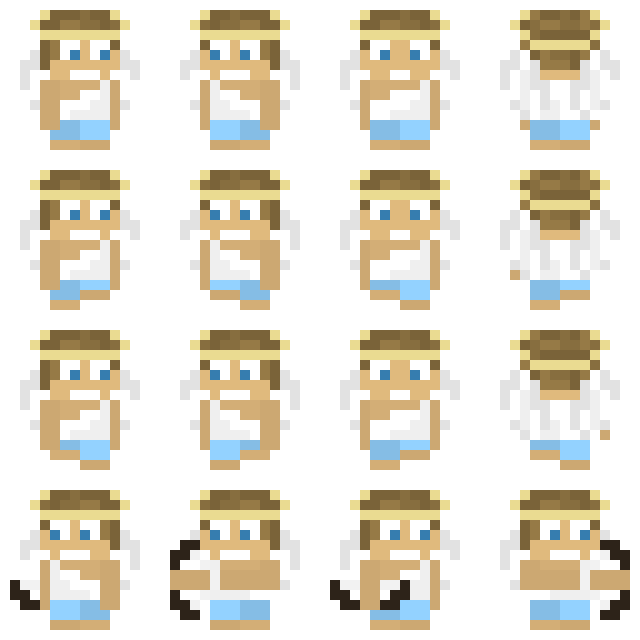
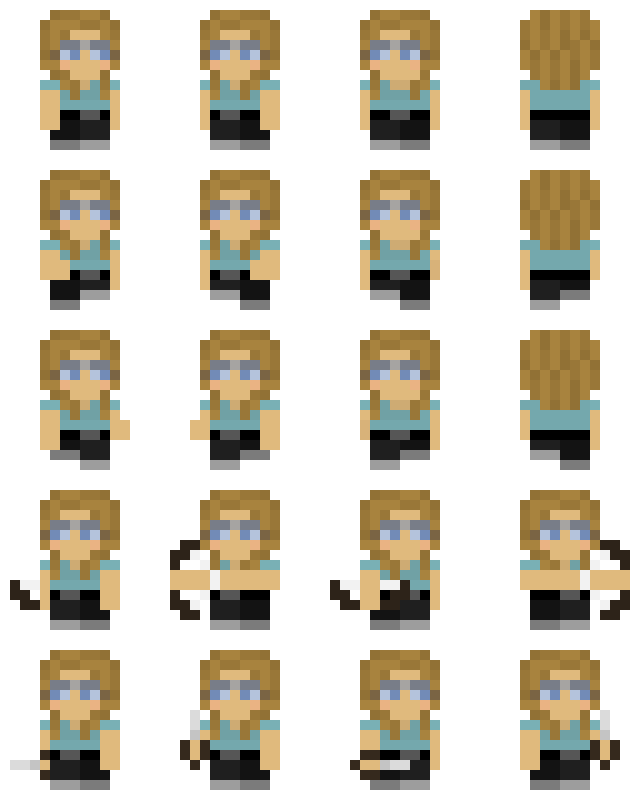
Attacking with Sword

diff --git a/player.js b/player.js
@@ -13,9 +13,6 @@ const Y_OFFSET = HEIGHT / 2 - PLAYER_SIZE / 2;
 // Ruch gracza
 var direction = 0;
 var moving = false;
-var shooting = false;
-var leftButton = false;
-var shootingIndex = -1;
 
 var movingTime = 0;
 var movingIndex = -1;
@@ -45,9 +42,6 @@ const allTheRightMoves = {
     D: [1, 0]
 };
 
-var shootingTextures1 = [];
-var shootingTextures2 = [];
-
 // Funkcja renderująca graczy
 function renderPlayers() {
     for (var player of otherPlayers) {
@@ -55,7 +49,7 @@ function renderPlayers() {
 
         var xPos = getX(player.xPos);
         var yPos = getY(player.yPos);
-        drawPlayer(xPos, yPos, player.skin, player.direction, player.movingIndex, player.shooting, player.shootingIndex, player.leftButton, player.charged);
+        drawPlayer(xPos, yPos, player.skin, player.direction, player.movingIndex, player.shooting, player.shootingDirIndex, player.leftButton, player.charged, player.swordAttack, player.swordDirIndex, player.swordAttackStage);
         
         var textX = xPos + PLAYER_SIZE / 2;
         var textY = yPos - 18;
@@ -75,9 +69,12 @@ function send() {
         playerCode, direction,
         moving, movingIndex,
 
-        shooting, shootingIndex,
+        shooting, shootingDirIndex,
         leftButton, charged,
-        gameCode, shots
+        gameCode, shots,
+        
+        swordAttack, swordAttackStage,
+        swordDirIndex
     });
 }
 
@@ -103,22 +100,32 @@ function playerMoving() {
         movingTime++;
         movingIndex = (movingTime % TEX_SPEED < TEX_SPEED / 2) ? 0 : 1;
     }
-    hitbox.render(X_OFFSET, Y_OFFSET, "red");
 }
 
 // Funkcja renderująca dowolnego gracza na mapie
-function drawPlayer(x, y, textureIndex, direction, movingIndex, shooting, shootingIndex, leftButton, charged) {
+function drawPlayer(x, y, textureIndex, direction, movingIndex, shooting, shootingIndex, leftButton, charged, swordAttack, swordDirIndex, swordAttackStage) {
     var texture = skinsImages[textureIndex];
     var xOffset = direction;
     var yOffset = movingIndex + 1;
 
-    if(shooting) {
-        var shootingTextures = shootingIndex == 1 ? shootingTextures1 : shootingTextures2;
-        var index = leftButton ? 0 : 1;
-        if(!charged) index = 1;
+    const BOW_TEX = 3;
+    const SWORD_TEX = 4;
 
-        xOffset = shootingTextures[index][0];
-        yOffset = shootingTextures[index][1];
+    if(shooting) {
+        var shootingTextures = weaponTextures[shootingIndex == LEFT ? "left" : "right"];
+        var index = leftButton ? WEAPON_ACTIVE : WEAPON_DEFAULT;
+        if(!charged) index = WEAPON_DEFAULT;
+
+        xOffset = shootingTextures[index];
+        yOffset = BOW_TEX;
+    }
+    if(swordAttack) {
+        var attackTextures = weaponTextures[swordDirIndex == LEFT ? "left" : "right"];
+        var index = swordAttackStage ? WEAPON_DEFAULT : WEAPON_ACTIVE;
+        attackTextures = weaponTextures["left"];
+
+        xOffset = attackTextures[index];
+        yOffset = SWORD_TEX;
     }
     ctx.drawImage(texture, xOffset * PLAYER_SIZE, yOffset * PLAYER_SIZE, PLAYER_SIZE, PLAYER_SIZE, x, y, PLAYER_SIZE, PLAYER_SIZE);
 }
@@ -152,25 +159,6 @@ function isCollision(playerX, playerY, moveX, moveY, direction) {
 
     var tile = getTile(xPos, yPos);
     return tilesSolid[tile.type];
-}
-
-function shoot(mouseX, mouseY) {
-    var playerCenterX = playerX + PLAYER_SIZE / 2;
-    var playerCenterY = playerY + PLAYER_SIZE / 2;
-
-    var xPos = mouseX + playerX - X_OFFSET;
-    var yPos = mouseY + playerY - Y_OFFSET;
-
-    var xLength = xPos - playerCenterX;
-    var yLength = yPos - playerCenterY;
-
-    var angle = Math.atan2(yLength, xLength);
-    var shot = new ArrowShot(playerCenterX, playerCenterY, angle);
-    shots.push(shot);
-    send();
-    
-    arrows--;
-    setBoardString("arrows", arrows);
 }
 
 function getX(mapX) {

diff --git a/weapon.js b/weapon.js
@@ -9,6 +9,18 @@ var charged = true;
 var bow = false;
 var arrows = 0;
 
+const WEAPON_DEFAULT = 1;
+const WEAPON_ACTIVE = 0;
+var weaponTextures = {};
+
+var shooting = false;
+var leftButton = false;
+var shootingDirIndex = -1;
+
+var swordAttack = false;
+var swordAttackStage = -1;
+var swordDirIndex = -1;
+
 class ArrowShot {
     constructor(startX, startY, angle) {
         this.startX = startX;
@@ -17,7 +29,7 @@ class ArrowShot {
 
         this.xSpeed = Math.cos(angle) * SHOT_SPEED;
         this.ySpeed = Math.sin(angle) * SHOT_SPEED;
-        
+
         this.xPos = startX - TILE_SIZE / 2;
         this.yPos = startY - TILE_SIZE / 2;
         this.destroyed = false;
@@ -26,7 +38,7 @@ class ArrowShot {
         this.xPos += this.xSpeed;
         this.yPos += this.ySpeed;
 
-        if(this.getDistance() >= SHOT_DISTANCE) {
+        if (this.getDistance() >= SHOT_DISTANCE) {
             this.destroy();
         }
 
@@ -36,11 +48,11 @@ class ArrowShot {
         var tileY = this.yPos + TILE_SIZE / 2;
 
         var tile = getTile(tileX, tileY);
-        
-        if(!tile) this.destroy();
+
+        if (!tile) this.destroy();
         else {
             var type = tilesNames[tile.type];
-            if(tilesSolid[tile.type] && type != "water" && type != "rock") {
+            if (tilesSolid[tile.type] && type != "water" && type != "rock") {
                 this.destroy();
             }
         }
@@ -62,6 +74,44 @@ class ArrowShot {
     }
 }
 
+function attack() {
+    const SWORD_ATTACK_TIME = 150;
+    
+    swordAttack = true;
+    swordAttackStage = WEAPON_ACTIVE;
+    send();
+    setTimeout(function () {
+
+        swordAttackStage = WEAPON_DEFAULT;
+        send();
+        setTimeout(function () {
+            swordAttack = false;
+            swordAttackStage = -1;
+            send();
+        }, SWORD_ATTACK_TIME);
+
+    }, SWORD_ATTACK_TIME);
+}
+
+function shoot(mouseX, mouseY) {
+    var playerCenterX = playerX + PLAYER_SIZE / 2;
+    var playerCenterY = playerY + PLAYER_SIZE / 2;
+
+    var xPos = mouseX + playerX - X_OFFSET;
+    var yPos = mouseY + playerY - Y_OFFSET;
+
+    var xLength = xPos - playerCenterX;
+    var yLength = yPos - playerCenterY;
+
+    var angle = Math.atan2(yLength, xLength);
+    var shot = new ArrowShot(playerCenterX, playerCenterY, angle);
+    shots.push(shot);
+    send();
+
+    arrows--;
+    setBoardString("arrows", arrows);
+}
+
 function drawShot(x, y, angle) {
     drawRotatedImage(arrowTex, x, y, TILE_SIZE, TILE_SIZE, angle);
 }
@@ -70,7 +120,7 @@ function renderShots() {
     for (var s = 0; s < shots.length; s++) {
         var shot = shots[s];
         shot.update();
-        if(shot.destroyed) {
+        if (shot.destroyed) {
             shots.splice(s, 1);
             send();
         }

diff --git a/app.js b/app.js
@@ -88,12 +88,10 @@ function loadImages() {
         skinsImages[i] = createImage("players/player" + (i + 1) + ".png");
     }
 
-    shootingTextures1 = [
-        [1, 3], [0, 3]
-    ];
-    shootingTextures2 = [
-        [3, 3], [2, 3]
-    ];
+    weaponTextures = {
+        left: [1, 0],
+        right: [3, 2]
+    };
 }
 
 // Funkcja tworząca tablicę z kafelkami
@@ -139,11 +137,11 @@ function draw() {
     drawNick(nick, WIDTH / 2, Y_OFFSET - 18);
 
     // Renderowanie Gracza
-    drawPlayer(X_OFFSET, Y_OFFSET, skinIndex, direction, movingIndex, shooting, shootingIndex, leftButton, charged);
+    drawPlayer(X_OFFSET, Y_OFFSET, skinIndex, direction, movingIndex, shooting, shootingDirIndex, leftButton, charged, swordAttack, swordDirIndex, swordAttackStage);
     checkCoinCollision(playerX, playerY);
 
     // Poruszanie się gracza
-    if (!shooting) {
+    if (!shooting && !swordAttack) {
         playerMoving();
     }
     time++;

diff --git a/input.js b/input.js
@@ -25,6 +25,9 @@ function initKeyboard() {
 
 function initMouse() {
     document.body.onmousedown = function (event) {
+        if(!shooting) {
+            attack();
+        }
         if (shooting && isPlayerReady() && event.button == 0) {
             leftButton = true;
             send();
@@ -44,10 +47,10 @@ function initMouse() {
     }
     document.body.onmousemove = function (event) {
         var mouseX = getMouseX(event);
-        shootingIndex = (mouseX < WIDTH / 2) ? 1 : 0;
+        shootingDirIndex = (mouseX < WIDTH / 2) ? 1 : 0;
         
         if(shooting) {
-            direction = shootingIndex;
+            direction = shootingDirIndex;
         }
         send();
     }

diff --git a/server.js b/server.js
@@ -123,9 +123,13 @@ function updatePlayer(data) {
     player.shots = data.shots;
 
     player.shooting = data.shooting;
-    player.shootingIndex = data.shootingIndex;
+    player.shootingDirIndex = data.shootingDirIndex;
     player.leftButton = data.leftButton;
     player.charged = data.charged;
+
+    player.swordAttack = data.swordAttack;
+    player.swordAttackStage = data.swordAttackStage;
+    player.swordDirIndex = data.swordDirIndex;
 }
 
 // Funkcja wysyłająca dane innych graczy
